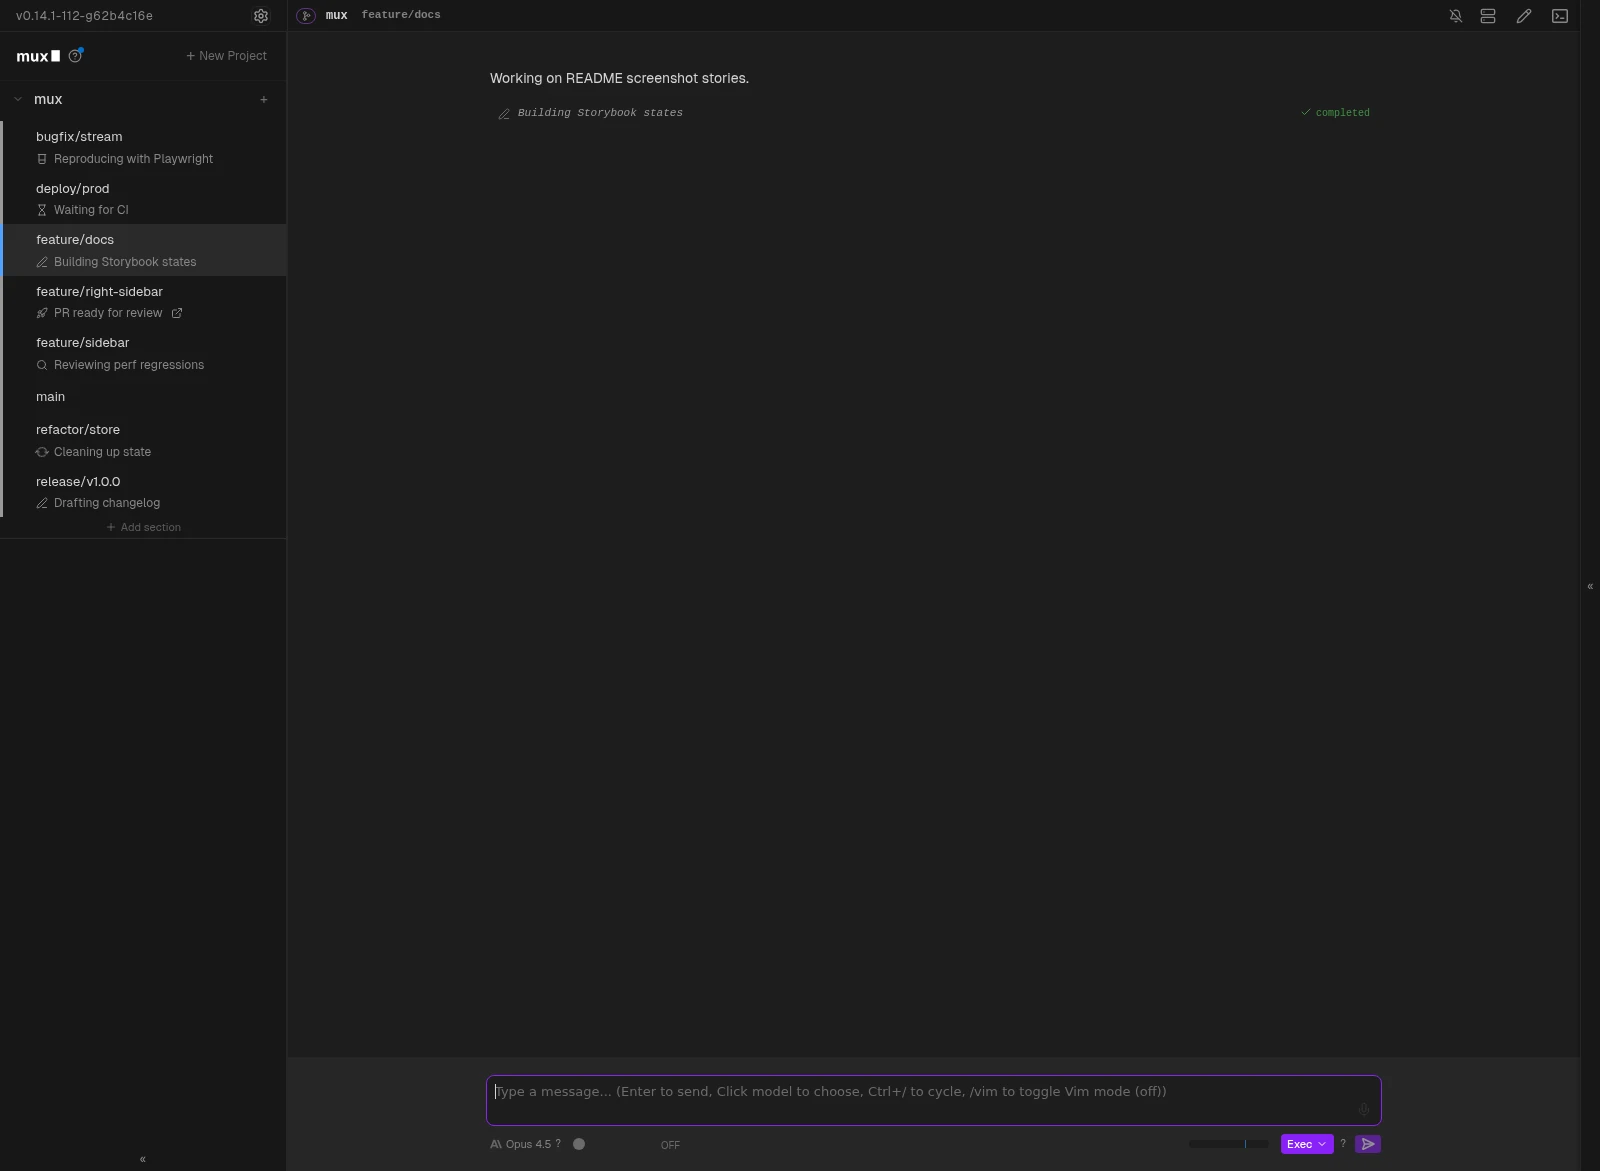
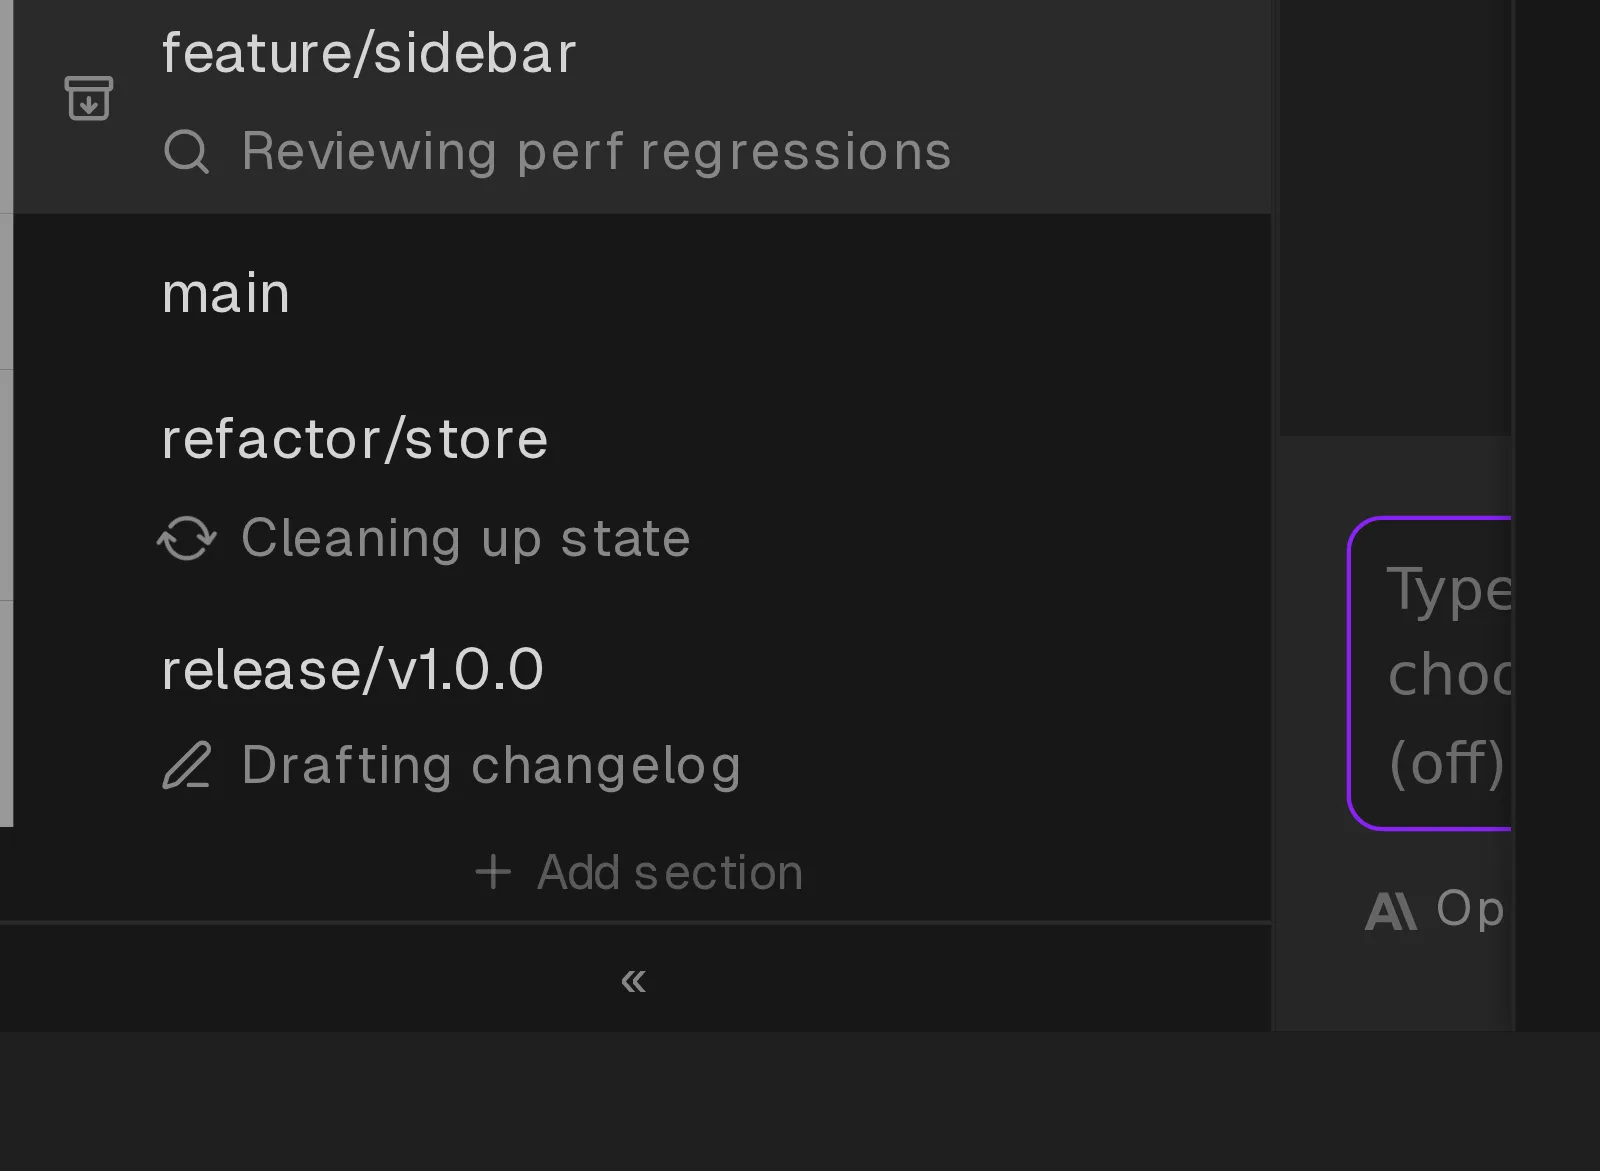
docs: zoom AgentStatusSidebar story + refresh screenshot

diff --git a/src/browser/stories/App.readmeScreenshots.stories.tsx b/src/browser/stories/App.readmeScreenshots.stories.tsx
@@ -564,154 +564,179 @@ export const CodeReview: AppStory = {
 
 // README: docs/img/agent-status.webp
 export const AgentStatusSidebar: AppStory = {
-  render: () => (
-    <AppWithMocks
-      setup={() => {
-        const workspaces = [
-          createWorkspace({
-            id: "ws-status-1",
-            name: "feature/docs",
-            projectName: README_PROJECT_NAME,
-            projectPath: README_PROJECT_PATH,
-          }),
-          createWorkspace({
-            id: "ws-status-2",
-            name: "feature/sidebar",
-            projectName: README_PROJECT_NAME,
-            projectPath: README_PROJECT_PATH,
-          }),
-          createWorkspace({
-            id: "ws-status-3",
-            name: "bugfix/stream",
-            projectName: README_PROJECT_NAME,
-            projectPath: README_PROJECT_PATH,
-          }),
-          createWorkspace({
-            id: "ws-status-4",
-            name: "refactor/store",
-            projectName: README_PROJECT_NAME,
-            projectPath: README_PROJECT_PATH,
-          }),
-          createWorkspace({
-            id: "ws-status-5",
-            name: "feature/right-sidebar",
-            projectName: README_PROJECT_NAME,
-            projectPath: README_PROJECT_PATH,
-          }),
-          createSSHWorkspace({
-            id: "ws-status-ssh",
-            name: "deploy/prod",
-            projectName: README_PROJECT_NAME,
-            projectPath: README_PROJECT_PATH,
-            host: "prod.example.com",
-          }),
-          createWorkspace({
-            id: "ws-status-6",
-            name: "release/v1.0.0",
-            projectName: README_PROJECT_NAME,
-            projectPath: README_PROJECT_PATH,
-          }),
-          createWorkspace({
-            id: "ws-status-7",
-            name: "main",
-            projectName: README_PROJECT_NAME,
-            projectPath: README_PROJECT_PATH,
-          }),
-        ];
+  render: () => {
+    // Intentionally zoom/crop so the Storybook canvas focuses on the left sidebar's
+    // per-workspace agent status indicators (matching the README screenshot intent).
+    const viewportWidthPx = 1600;
+    const cropWidthPx = 360;
+    const zoomScale = viewportWidthPx / cropWidthPx;
 
-        const chatHandlers = new Map([
-          [
-            "ws-status-1",
-            createStaticChatHandler([
-              createAssistantMessage("msg-1", "Working on README screenshot stories.", {
-                historySequence: 1,
-                timestamp: STABLE_TIMESTAMP - 100_000,
-                toolCalls: [createStatusTool("call-1", "📝", "Building Storybook states")],
-              }),
-            ]),
-          ],
-          [
-            "ws-status-2",
-            createStaticChatHandler([
-              createAssistantMessage("msg-1", "Tuning sidebar virtualization.", {
-                historySequence: 1,
-                timestamp: STABLE_TIMESTAMP - 95_000,
-                toolCalls: [createStatusTool("call-1", "🔍", "Reviewing perf regressions")],
-              }),
-            ]),
-          ],
-          [
-            "ws-status-3",
-            createStaticChatHandler([
-              createAssistantMessage("msg-1", "Investigating stream stalls.", {
-                historySequence: 1,
-                timestamp: STABLE_TIMESTAMP - 90_000,
-                toolCalls: [createStatusTool("call-1", "🧪", "Reproducing with Playwright")],
-              }),
-            ]),
-          ],
-          [
-            "ws-status-4",
-            createStaticChatHandler([
-              createAssistantMessage("msg-1", "Refactoring WorkspaceStore subscriptions.", {
-                historySequence: 1,
-                timestamp: STABLE_TIMESTAMP - 85_000,
-                toolCalls: [createStatusTool("call-1", "🔄", "Cleaning up state")],
-              }),
-            ]),
-          ],
-          [
-            "ws-status-5",
-            createStaticChatHandler([
-              createAssistantMessage("msg-1", "Adding split pane layout fixtures.", {
-                historySequence: 1,
-                timestamp: STABLE_TIMESTAMP - 80_000,
-                toolCalls: [
-                  createStatusTool(
-                    "call-1",
-                    "🚀",
-                    "PR ready for review",
-                    "https://github.com/mux/cmux/pull/1234"
-                  ),
+    // The first workspace row starts ~170px down in the full app layout. Offset the
+    // crop so the zoomed view is primarily the workspace list (not the mostly-empty
+    // workspace content area).
+    const cropOffsetYPx = 150;
+
+    return (
+      <div
+        style={{
+          width: cropWidthPx,
+          height: `calc(100dvh / ${zoomScale})`,
+          overflow: "hidden",
+          transform: `scale(${zoomScale})`,
+          transformOrigin: "top left",
+        }}
+      >
+        <div style={{ position: "relative", top: -cropOffsetYPx }}>
+          <AppWithMocks
+            setup={() => {
+              const workspaces = [
+                createWorkspace({
+                  id: "ws-status-1",
+                  name: "feature/docs",
+                  projectName: README_PROJECT_NAME,
+                  projectPath: README_PROJECT_PATH,
+                }),
+                createWorkspace({
+                  id: "ws-status-2",
+                  name: "feature/sidebar",
+                  projectName: README_PROJECT_NAME,
+                  projectPath: README_PROJECT_PATH,
+                }),
+                createWorkspace({
+                  id: "ws-status-3",
+                  name: "bugfix/stream",
+                  projectName: README_PROJECT_NAME,
+                  projectPath: README_PROJECT_PATH,
+                }),
+                createWorkspace({
+                  id: "ws-status-4",
+                  name: "refactor/store",
+                  projectName: README_PROJECT_NAME,
+                  projectPath: README_PROJECT_PATH,
+                }),
+                createWorkspace({
+                  id: "ws-status-5",
+                  name: "feature/right-sidebar",
+                  projectName: README_PROJECT_NAME,
+                  projectPath: README_PROJECT_PATH,
+                }),
+                createSSHWorkspace({
+                  id: "ws-status-ssh",
+                  name: "deploy/prod",
+                  projectName: README_PROJECT_NAME,
+                  projectPath: README_PROJECT_PATH,
+                  host: "prod.example.com",
+                }),
+                createWorkspace({
+                  id: "ws-status-6",
+                  name: "release/v1.0.0",
+                  projectName: README_PROJECT_NAME,
+                  projectPath: README_PROJECT_PATH,
+                }),
+                createWorkspace({
+                  id: "ws-status-7",
+                  name: "main",
+                  projectName: README_PROJECT_NAME,
+                  projectPath: README_PROJECT_PATH,
+                }),
+              ];
+
+              const chatHandlers = new Map([
+                [
+                  "ws-status-1",
+                  createStaticChatHandler([
+                    createAssistantMessage("msg-1", "Working on README screenshot stories.", {
+                      historySequence: 1,
+                      timestamp: STABLE_TIMESTAMP - 100_000,
+                      toolCalls: [createStatusTool("call-1", "📝", "Building Storybook states")],
+                    }),
+                  ]),
                 ],
-              }),
-            ]),
-          ],
-          [
-            "ws-status-ssh",
-            createStaticChatHandler([
-              createAssistantMessage("msg-1", "Deploying staging.", {
-                historySequence: 1,
-                timestamp: STABLE_TIMESTAMP - 70_000,
-                toolCalls: [createStatusTool("call-1", "⏳", "Waiting for CI")],
-              }),
-            ]),
-          ],
-          [
-            "ws-status-6",
-            createStaticChatHandler([
-              createAssistantMessage("msg-1", "Preparing release notes.", {
-                historySequence: 1,
-                timestamp: STABLE_TIMESTAMP - 65_000,
-                toolCalls: [createStatusTool("call-1", "📝", "Drafting changelog")],
-              }),
-            ]),
-          ],
-          ["ws-status-7", createStaticChatHandler([])],
-        ]);
+                [
+                  "ws-status-2",
+                  createStaticChatHandler([
+                    createAssistantMessage("msg-1", "Tuning sidebar virtualization.", {
+                      historySequence: 1,
+                      timestamp: STABLE_TIMESTAMP - 95_000,
+                      toolCalls: [createStatusTool("call-1", "🔍", "Reviewing perf regressions")],
+                    }),
+                  ]),
+                ],
+                [
+                  "ws-status-3",
+                  createStaticChatHandler([
+                    createAssistantMessage("msg-1", "Investigating stream stalls.", {
+                      historySequence: 1,
+                      timestamp: STABLE_TIMESTAMP - 90_000,
+                      toolCalls: [createStatusTool("call-1", "🧪", "Reproducing with Playwright")],
+                    }),
+                  ]),
+                ],
+                [
+                  "ws-status-4",
+                  createStaticChatHandler([
+                    createAssistantMessage("msg-1", "Refactoring WorkspaceStore subscriptions.", {
+                      historySequence: 1,
+                      timestamp: STABLE_TIMESTAMP - 85_000,
+                      toolCalls: [createStatusTool("call-1", "🔄", "Cleaning up state")],
+                    }),
+                  ]),
+                ],
+                [
+                  "ws-status-5",
+                  createStaticChatHandler([
+                    createAssistantMessage("msg-1", "Adding split pane layout fixtures.", {
+                      historySequence: 1,
+                      timestamp: STABLE_TIMESTAMP - 80_000,
+                      toolCalls: [
+                        createStatusTool(
+                          "call-1",
+                          "🚀",
+                          "PR ready for review",
+                          "https://github.com/mux/cmux/pull/1234"
+                        ),
+                      ],
+                    }),
+                  ]),
+                ],
+                [
+                  "ws-status-ssh",
+                  createStaticChatHandler([
+                    createAssistantMessage("msg-1", "Deploying staging.", {
+                      historySequence: 1,
+                      timestamp: STABLE_TIMESTAMP - 70_000,
+                      toolCalls: [createStatusTool("call-1", "⏳", "Waiting for CI")],
+                    }),
+                  ]),
+                ],
+                [
+                  "ws-status-6",
+                  createStaticChatHandler([
+                    createAssistantMessage("msg-1", "Preparing release notes.", {
+                      historySequence: 1,
+                      timestamp: STABLE_TIMESTAMP - 65_000,
+                      toolCalls: [createStatusTool("call-1", "📝", "Drafting changelog")],
+                    }),
+                  ]),
+                ],
+                ["ws-status-7", createStaticChatHandler([])],
+              ]);
 
-        expandProjects([README_PROJECT_PATH]);
-        selectWorkspace(workspaces[0]);
-        collapseRightSidebar();
+              expandProjects([README_PROJECT_PATH]);
+              selectWorkspace(workspaces[0]);
+              collapseRightSidebar();
 
-        return createMockORPCClient({
-          projects: groupWorkspacesByProject(workspaces),
-          workspaces,
-          onChat: createOnChatAdapter(chatHandlers),
-        });
-      }}
-    />
-  ),
+              return createMockORPCClient({
+                projects: groupWorkspacesByProject(workspaces),
+                workspaces,
+                onChat: createOnChatAdapter(chatHandlers),
+              });
+            }}
+          />
+        </div>
+      </div>
+    );
+  },
 };
 
 // README: docs/img/git-status.webp
